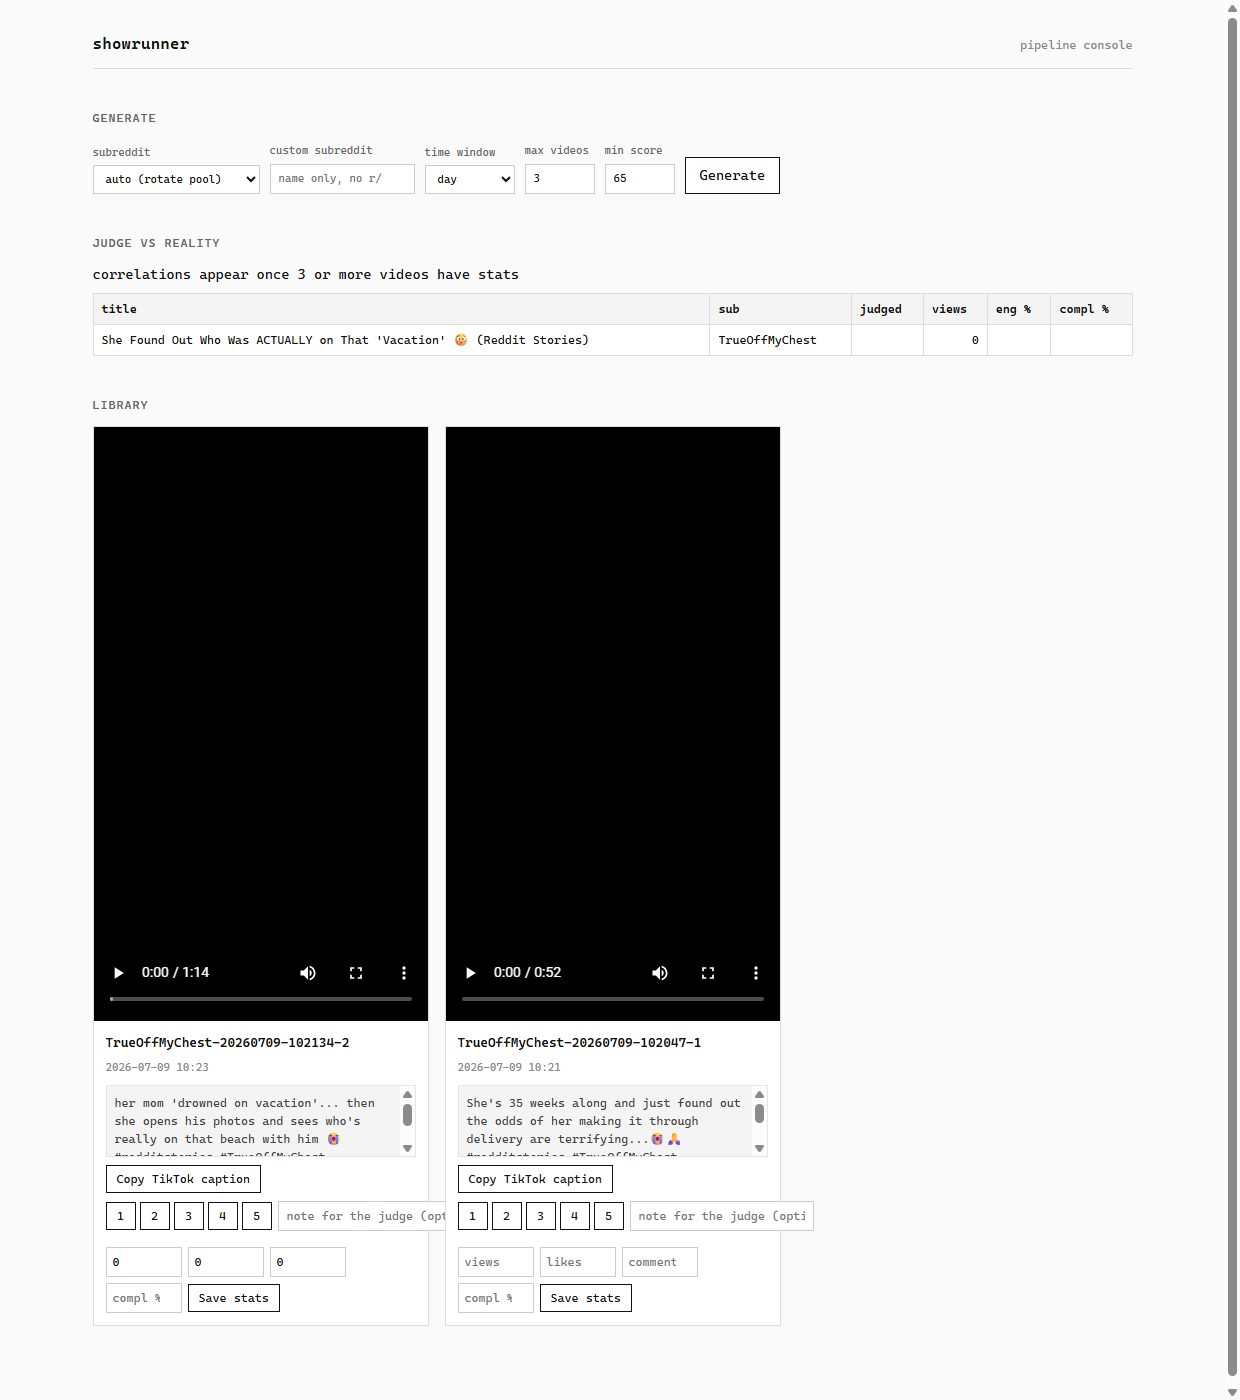
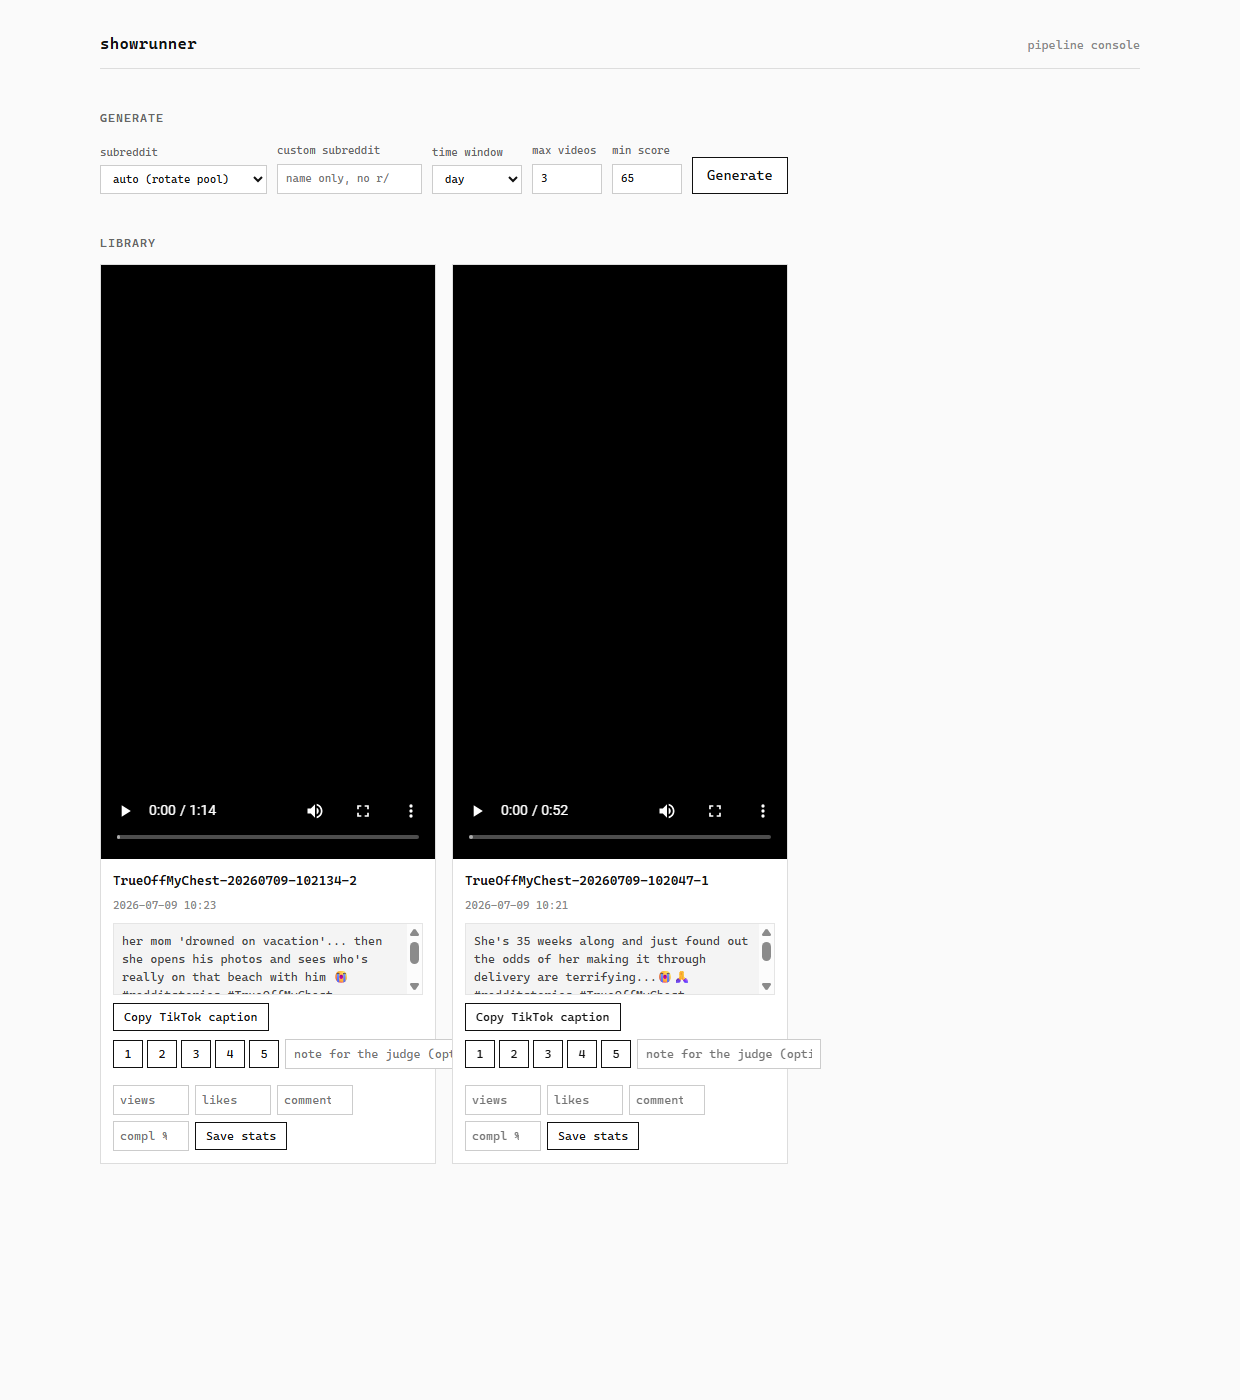
cleaner console screenshot

diff --git a/README.md b/README.md
@@ -211,7 +211,8 @@ the browser loses nothing.
 
 The console with two videos in the library. Under each one: the TikTok
 caption with a copy button, the 1-5 rating row with a note field for the
-judge, and the stats inputs that feed the judge-vs-reality table up top.
+judge, and the stats inputs. Once videos have stats, a judge-vs-reality
+table with the correlations appears above the library.
 
 ## Files it writes
 